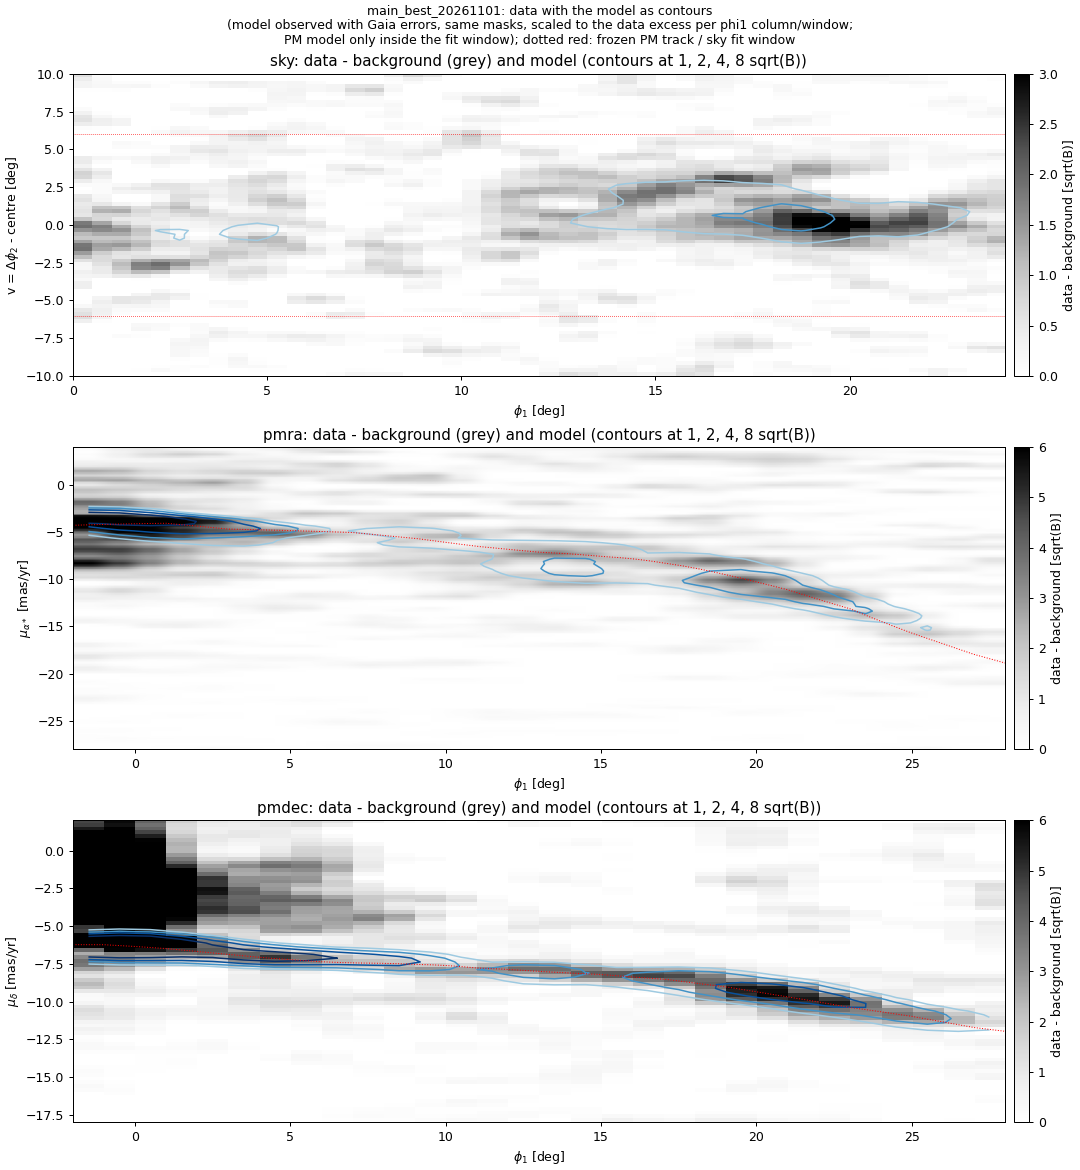
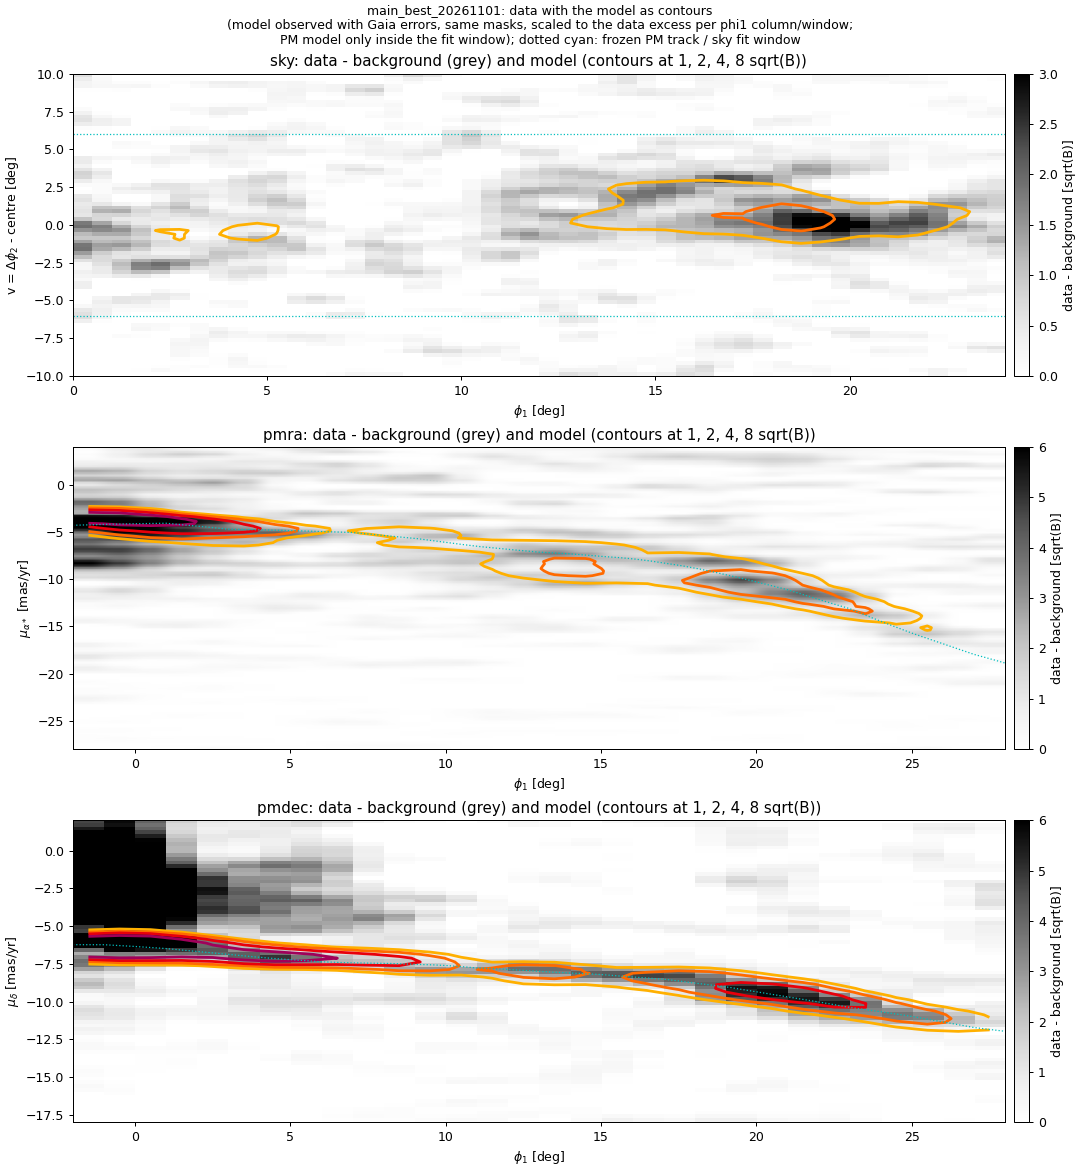
Model contours: bold warm colours, thicker lines; cyan track/window

diff --git a/bin/streams/stream_model_compare.py b/bin/streams/stream_model_compare.py
@@ -231,15 +231,15 @@ def model_maps(O, M):
         cm = plt.get_cmap("Greys"); ext = (E1[0], E1[-1], Ey[0], Ey[-1])
         im = a.imshow(sm(np.nan_to_num(Xd)).T, origin="lower", aspect="auto", cmap=cm, vmin=0, vmax=3 if q == "sky" else 6, extent=ext)
         c1, cy = 0.5*(E1[1:]+E1[:-1]), 0.5*(Ey[1:]+Ey[:-1])
-        cs = a.contour(c1, cy, sm(np.nan_to_num(Sd)).T, levels=lev, colors=("#9ecae1", "#4292c6", "#08519c", "#08306b"), linewidths=1.2)
+        cs = a.contour(c1, cy, sm(np.nan_to_num(Sd)).T, levels=lev, colors=("#ffb000", "#ff6a00", "#e8000b", "#a0005a"), linewidths=2.2)
         a.set(xlim=xl, ylabel=lab, xlabel=r"$\phi_1$ [deg]", title=f"{q}: data - background (grey) and model (contours at {', '.join(f'{l:g}' for l in lev)} sqrt(B))")
         fig.colorbar(im, ax=a, pad=0.01, label="data - background [sqrt(B)]")
         if q != "sky":
-            g = np.linspace(-2, 28, 301); a.plot(g, O.ev(q, g), "r:", lw=0.8)
+            g = np.linspace(-2, 28, 301); a.plot(g, O.ev(q, g), "c:", lw=1.0)
         else:
-            a.axhline(6, color="r", ls=":", lw=0.6); a.axhline(-6, color="r", ls=":", lw=0.6)
+            a.axhline(6, color="c", ls=":", lw=1.0); a.axhline(-6, color="c", ls=":", lw=1.0)
     fig.suptitle(f"{Path(M['file']).stem}: data with the model as contours\n(model observed with Gaia errors, same masks, scaled to the data excess per phi1 column/window;\n"
-                 f"PM model only inside the fit window); dotted red: frozen PM track / sky fit window", fontsize=10)
+                 f"PM model only inside the fit window); dotted cyan: frozen PM track / sky fit window", fontsize=10)
     out = ROOT/f"plots/stream_model_contours_{Path(M['file']).stem}.png"; fig.savefig(out, dpi=90); print(out.relative_to(ROOT))
 
 
